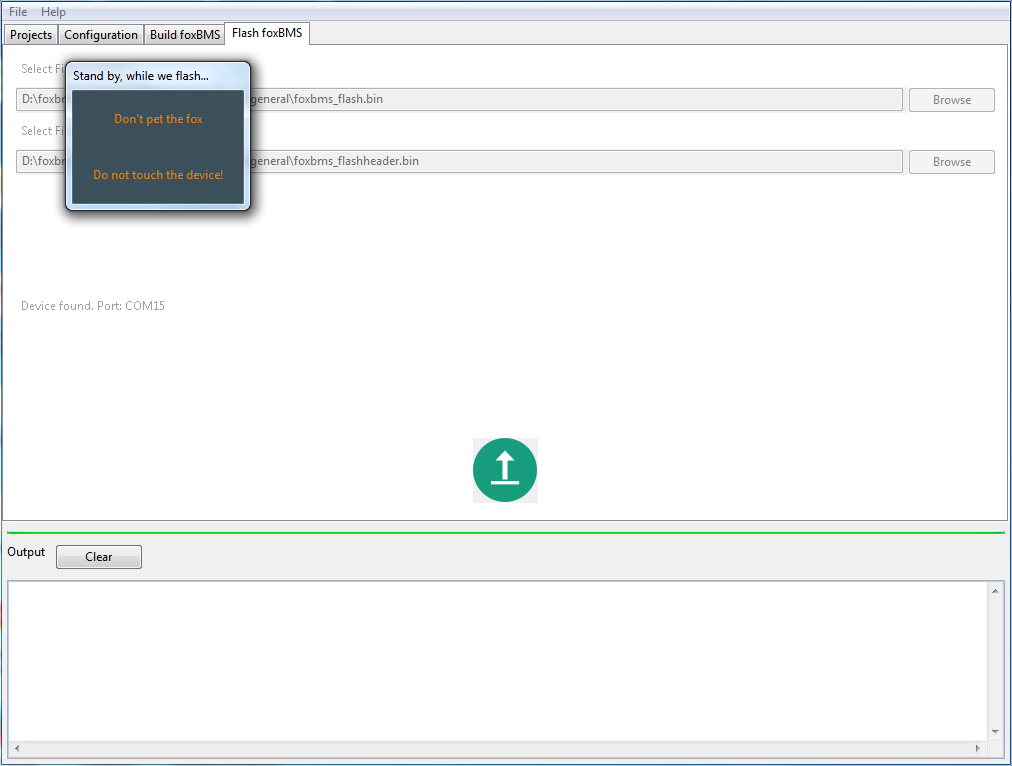
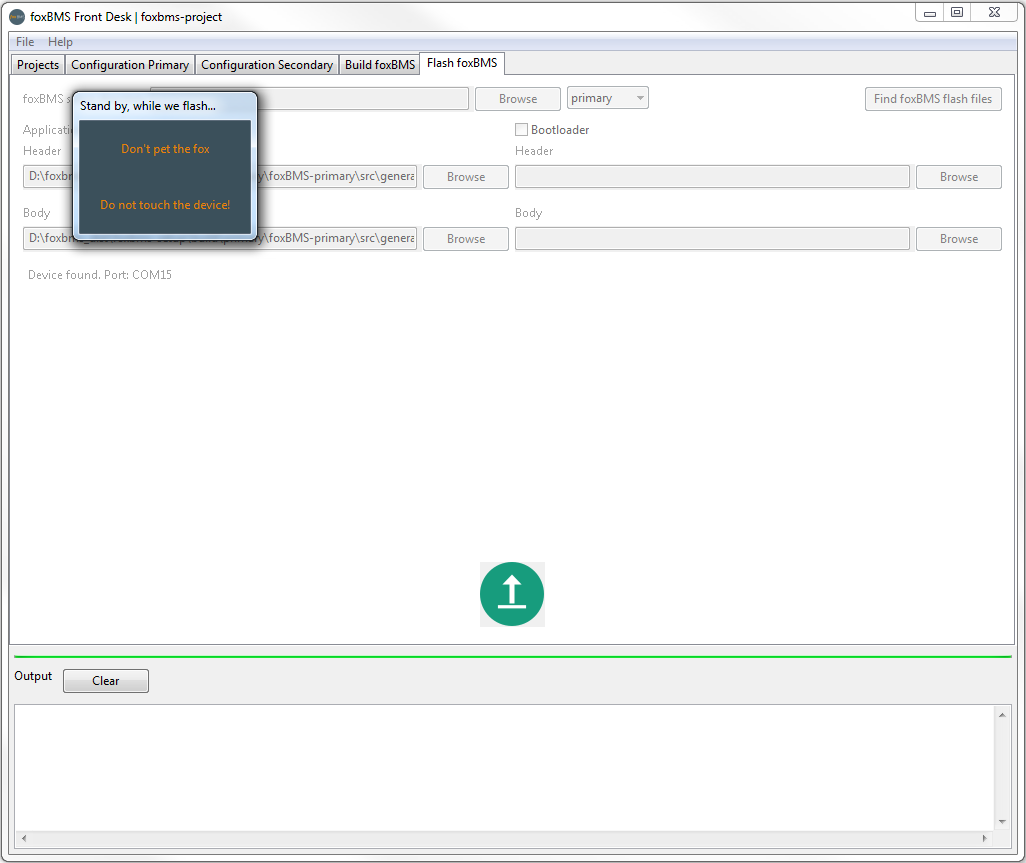
Updated part on IDE.

Changed region(s): [[0.0, 0.0, 1.0, 1.0], [0.4901, 0.2402, 0.5514, 0.2702]]

diff --git a/doc/sphinx/getting_started/foxconda/foxconda.rst b/doc/sphinx/getting_started/foxconda/foxconda.rst
@@ -90,8 +90,8 @@ In addition, if it is preferred to build |foxconda| from the command line, the c
 Configuration, Compilation and Flashing with the Graphical User Interface
 -------------------------------------------------------------------------
 
-Get the |foxbms| sources
-========================
+Get the |foxbms| sources via the terminal
+=========================================
 
 The sources are available on `GitHub <https://github.com/foxBMS/>`_. They consists of several repositories.
 One of the repositories is called ``foxBMS-setup`` and contains tools to download everything needed from GitHub.
@@ -120,12 +120,12 @@ If everything works correctly, the following repositories will be cloned from Gi
 * hal
 
 	
-Select the sources
-================== 
+Get the |foxbms| sources via the IDE
+====================================
 
 The |foxbms| configuration and flash IDE is started with ``foxbms.exe`` as described in the previous section.
 
-When the program starts, a terminal window appears. This is normal. It will dissapear when the program is closed.
+When the program starts, a terminal window may appear. This is normal. It will dissapear when the program is closed.
 
 The IDE starts with the source selection tab shown in :numref:`fig. %s <frontdesk_figure1>`.
 
@@ -139,7 +139,12 @@ A project corresponds to the |foxbms| source code tree located on the computer. 
 will be stored. First, the ``foxBMS workspaces directory`` must be clicked on to select the folder that was created,
 under which all the new |foxbms| projects will be placed.
 
-The existing source tree directory generated in the previous section can be added.
+Click on the button ``Add from git``. In the dialog, if it is not already the case, specify https://github.com/foxBMS/foxBMS-setup as the GIT repository.
+Enter the wanted project name. In the main window, click on the project name to select it. Then click on ``Initialize project``.
+This will fetch the sources on GitHub, put them in the workspace directory and generate the documentation. During this process,
+some terminal windows may open and close automatically. This is normal.
+
+An existing source tree directory like the one generated in the previous section can also be added.
 The button ``Add from existing directory`` must be used. The folder will not be copied to the workspace directory.
 It will only be linked to the list of available directories.
 
@@ -148,20 +153,26 @@ It will only be linked to the list of available directories.
 Generate complete HTML documentation and code reference
 =======================================================
 
-The Sphinx documentation available on ReadTheDocs is included as RST files and can be generated. A project from the ``Available projects`` list must be selected by clicking on it. The project that has just been created must be selected. It will be highlighted in the list. Then it must be initialized by clicking on ``Initialize project``. During the initialization, the project is configured for the current development environment, and the documentation is generated, including the complete HTML documentation and the code reference. Once generated, the documentation can be accessed fronm the interface in the ``Help menu``. The complete HTML documentation can then be accessed directly by pressing ``F1``, too.
+The Sphinx documentation available on ReadTheDocs is included as RST files and can be generated. A project from the ``Available projects`` list must be selected by clicking on it.
+The project that has just been created must be selected. It will be highlighted in the list. Then it must be initialized by clicking on ``Initialize project``.
+During the initialization, the project is configured for the current development environment, and the documentation is generated, including the complete HTML
+documentation and the code reference. Once generated, the documentation can be accessed fronm the interface in the ``Help menu``.
+The complete HTML documentation can then be accessed directly by pressing ``F1``, too.
 
-During initialization, some terminal windows may open. They will close automatically. It must be noted that the last column in the projects list shows if a project has been successfully initialized. A project can always
-be re-initialized, for example, if the |foxconda| environment has been upgraded or the documentation modified. For an already initialized project, the initialization button reads ``Re-initialize project``.
+During initialization, some terminal windows may open. They will close automatically. It must be noted that the last column in the projects list
+shows if a project has been successfully initialized. A project can always
+be re-initialized, for example, if the |foxconda| environment has been upgraded or the documentation modified. For an already initialized project,
+the initialization button reads ``Re-initialize project``.
 
 The result of the initialization procedure is displayed in the ``Output`` area. The ``Clear`` button can be pressed to clean the output sub-window.
 
 Configure the Code
 ==================
 
-After the selected project has been initialized, it can be proceeded to the ``Configuration`` page, shown in :numref:`fig. %s <frontdesk_figure3>`.
+After the selected project has been initialized, it can be proceeded to the ``Configuration`` page, shown in :numref:`fig. %s <frontdesk_figure2>`.
 
-.. _frontdesk_figure3:
-.. figure:: ./frontdesk3.png
+.. _frontdesk_figure2:
+.. figure:: ./frontdesk2.png
    :width: 100 %
 
    Configuration tab
@@ -187,22 +198,13 @@ Underneath the property list, a description for each item can be found. Differen
  - Activated or Deactivated
  - A list of options
 
-If the property expects a numerical value, a range of validity is typically given. It can be found in the description window. If a value outside of the permitted range is entered, the entry appears in red, as shown in :numref:`fig. %s <frontdesk_figure3a>`.
+If the property expects a numerical value, a range of validity is typically given. It can be found in the description window. If a value outside of the permitted range is entered, the entry appears in red, as shown in :numref:`fig. %s <frontdesk_figure3>`.
 
-.. _frontdesk_figure3a:
-.. figure:: ./frontdesk3a.png
+.. _frontdesk_figure3:
+.. figure:: ./frontdesk3.png
    :width: 100 %
 
    Configuration tab, incorrect parameter value
-
-:numref:`Fig. %s <frontdesk_figure3b>` shows an example for a list of options to
-choose from.
-
-.. _frontdesk_figure3b:
-.. figure:: ./frontdesk3b.png
-   :width: 100 %
-
-   Configuration tab, multiple choice parameter
 
 To modify the sources according to the configuration settings, the ``Write Configuration to Files`` button must be pressed. The modifications will be lost if another page is selected without pressing ``Write Configuration to Files``. The default values of all parameters can be restored by the ``Reset all values to default`` button.
 

diff --git a/doc/sphinx/getting_started/flashing/flashing.rst b/doc/sphinx/getting_started/flashing/flashing.rst
@@ -126,7 +126,8 @@ First, when no device is connected, ``No device found.`` is displayed, as shown 
 
 	Flashing tab, no device connected
 
-The device must be connected to the computer with the USB cable. The |MCU0| must be used. In the :ref:`getting_started_cabling`, it is explained how to find the |MCU0| and where the primary USB connector is located.
+The device must be connected to the computer with the USB cable. The |MCU0| must be used. In the :ref:`getting_started_cabling`, it is explained how to find
+the |MCU0| and where the primary USB connector is located.
 
 Once a device was connected and detected, ``Device found.`` is displayed and the flash button becomes active, as shown in :numref:`fig. %s <frontdesk_figure6>`.
 
@@ -145,6 +146,10 @@ When the flash button is clicked, a windows appears, reminding not to touch the 
 
 	Flashing tab, device connected, flashing
 
+.. note::
+
+    With the ``primary/secondary`` dropdown list, it can be chosen which binaries will be flashed. Click on ``Find foxBMS flash files`` to validate the selection.
+	
 The connection state can also be checked by watching the LEDs on the |master| hardware: for a running board, the green power LED is on, and the two indicator LEDs (green and red) are blinking alternately. If the device is connected and being flashed, the power-on LED is on but the two indicator LEDs are off.
 
 The LEDs for the |MCU0| must be used. In the :ref:`getting_started_cabling`, it is explained how to find the |MCU0| indicator LEDs.
@@ -166,7 +171,8 @@ Flashing the Secondary MCU
 The same procedure as explained above must be followed for the |MCU1|, with the following differences:
 
  * A second project must be created in the IDE
- * The secondary MCU must be flashed with the USB connector corresponding to secondary. 
+ * The secondary MCU must be flashed with the USB connector corresponding to secondary.
+ * The secondary MCU must be chosen in the dropdown list, followed by a click on the button ``Find foxBMS flash files``.
 
 With the supplied code, the |MCU1| checks the temperatures and voltages. If one or more of the values are outside the limits, the |MCU1| opens the interlock line (thus opening the contactors). The interlock line remains open until the |MCU1| is reset.
 
